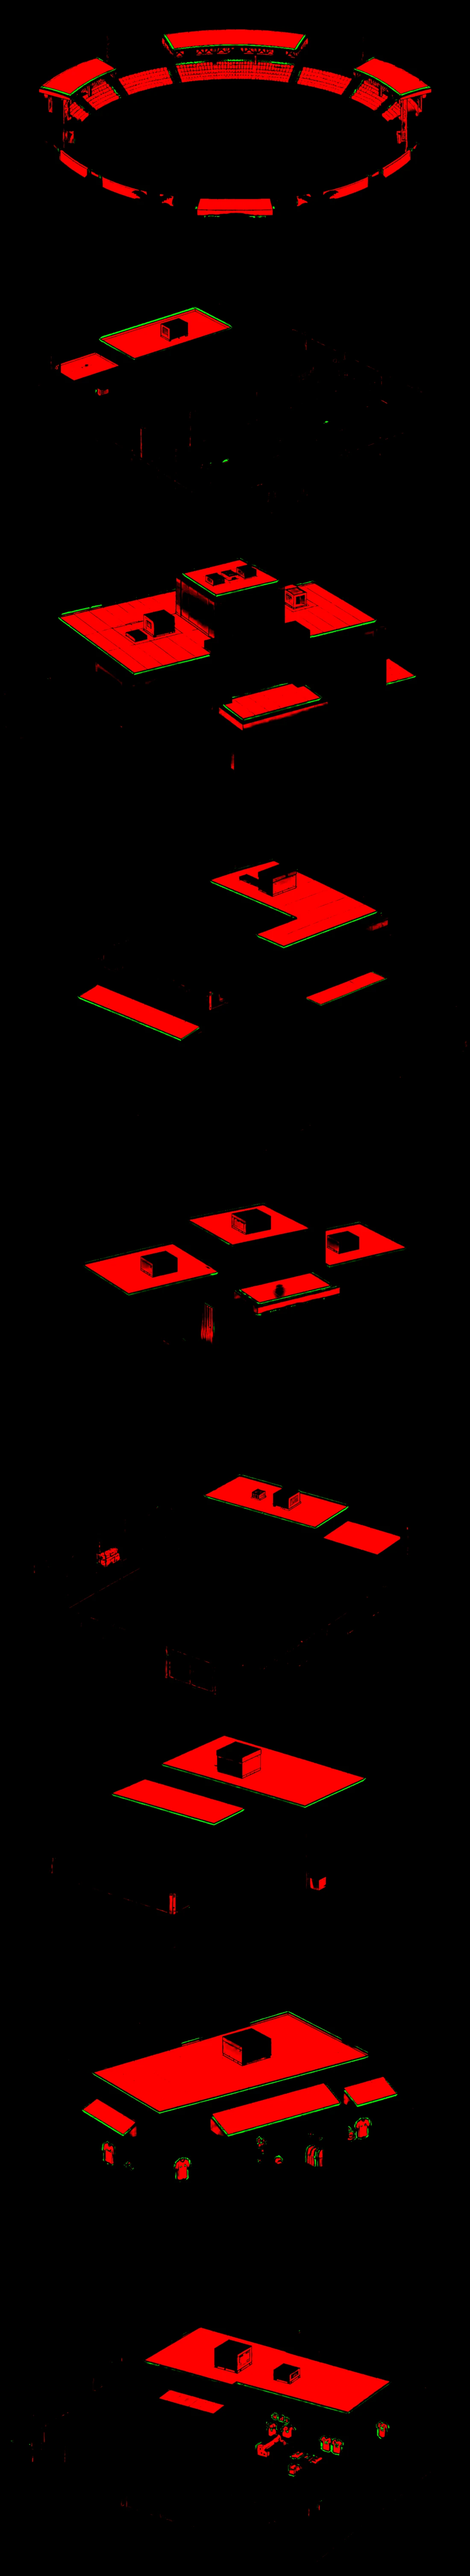
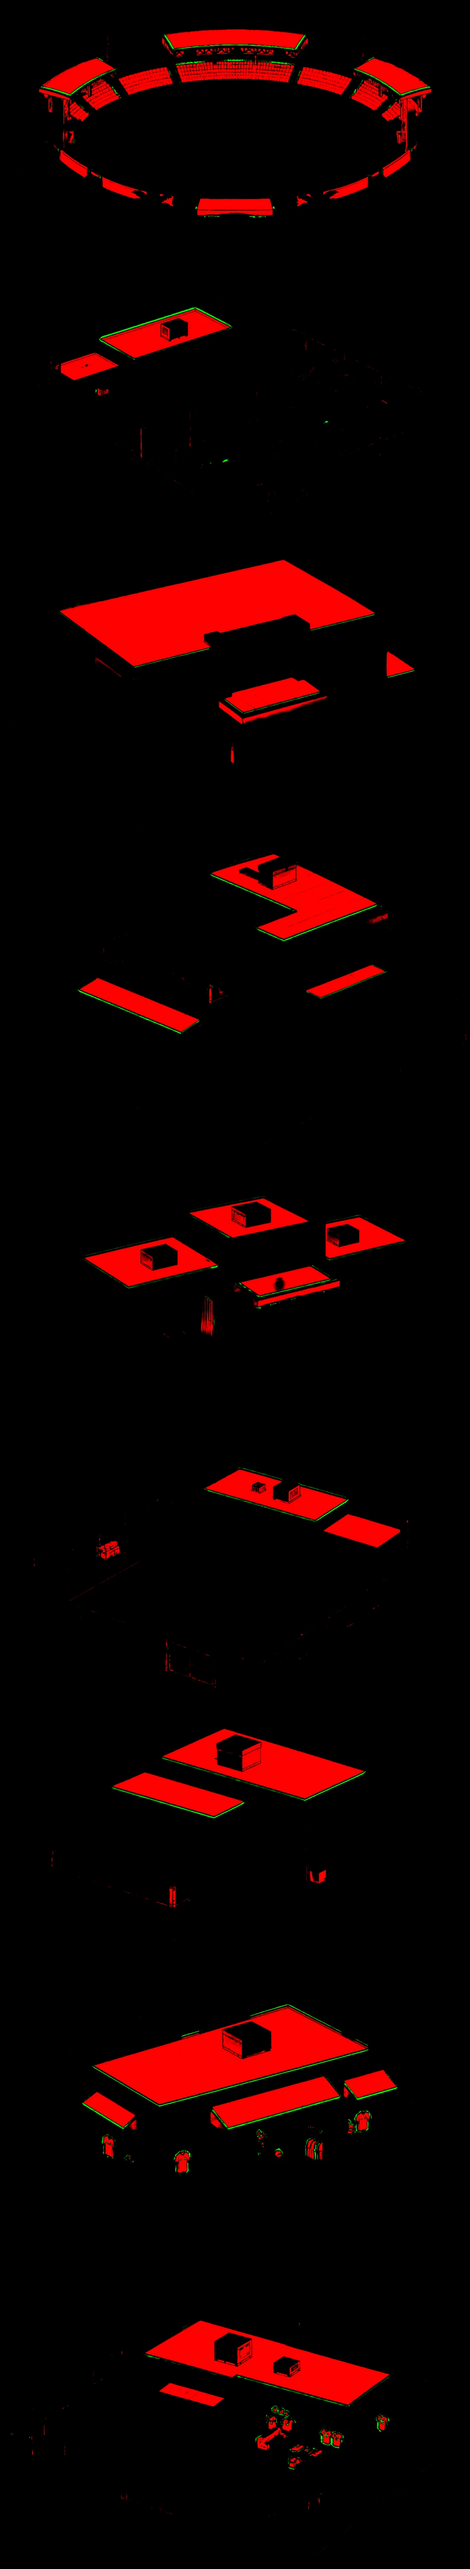
Club map: the level 1 club office (level 3 and the earlier one kept for later)
Claude-Session: https://claude.ai/code/session_01NK7tbrKg5PdA6fuyEUPXLd

diff --git a/js/clubmap.js b/js/clubmap.js
@@ -10,7 +10,7 @@ const SITES = {
   stadium:  { x: 0.504, y: 0.446, w: 0.314 },
   training: { x: 0.344, y: 0.165, w: 0.351 },
   apartment:{ x: 0.725, y: 0.211, w: 0.314 },
-  office:   { x: 0.224, y: 0.310, w: 0.316 },
+  office:   { x: 0.224, y: 0.312, w: 0.315 },
   academy:  { x: 0.810, y: 0.364, w: 0.294 },
   medical:  { x: 0.234, y: 0.570, w: 0.320 },
   clubhouse:{ x: 0.766, y: 0.592, w: 0.309 },
@@ -19,7 +19,7 @@ const SITES = {
 };
 const ORDER = Object.keys(SITES).sort((a, b) => SITES[a].y - SITES[b].y);   // far to near, the near ones painted over the far
 // where each building is in img/map/buildings.webp (and its tint in buildings-tint.webp): [row, height], all 1100 wide (tools/build_map.py)
-const ATLAS = {"stadium": [0, 647], "training": [647, 645], "office": [1292, 704], "apartment": [1996, 732], "medical": [2728, 651], "academy": [3379, 659], "clubhouse": [4038, 601], "shop": [4639, 709], "merch": [5348, 675]};
+const ATLAS = {"stadium": [0, 647], "training": [647, 645], "office": [1292, 688], "apartment": [1980, 732], "medical": [2712, 651], "academy": [3363, 659], "clubhouse": [4022, 601], "shop": [4623, 709], "merch": [5332, 675]};
 const AW = 1100;
 const rgbOf = h => [1, 3, 5].map(i => parseInt(h.slice(i, i + 2), 16));
 const load = src => new Promise((res, rej) => { const im = new Image(); im.onload = () => res(im); im.onerror = rej; im.src = src; });

diff --git a/tools/fit_map_sites.py b/tools/fit_map_sites.py
@@ -21,7 +21,7 @@ plots=[]
 for i,sl in enumerate(ndi.find_objects(lab),1):
     if (lab[sl]==i).sum()>40000:
         ys,xs=np.where(lab==i); plots.append(dict(cx=(xs.min()+xs.max())/2,cy=(ys.min()+ys.max())/2,x0=xs.min(),x1=xs.max(),y1=ys.max()))
-ATLAS={"stadium":[0,647],"training":[647,645],"office":[1292,704],"apartment":[1996,732],"medical":[2728,651],"academy":[3379,659],"clubhouse":[4038,601],"shop":[4639,709],"merch":[5348,675]}
+ATLAS={"stadium":[0,647],"training":[647,645],"office":[1292,688],"apartment":[1980,732],"medical":[2712,651],"academy":[3363,659],"clubhouse":[4022,601],"shop":[4623,709],"merch":[5332,675]}
 atlas=Image.open(R+'img/map/buildings.webp').convert('RGBA'); al=np.array(atlas)[...,3]
 def pick(fx,fy): return min(plots,key=lambda p:(p['cx']/W-fx)**2+(p['cy']/H-fy)**2)
 assign={'stadium':(.503,.444),'training':(.34,.195),'apartment':(.735,.245),'office':(.224,.334),'academy':(.812,.382),'medical':(.24,.584),'clubhouse':(.766,.594),'shop':(.239,.739),'merch':(.749,.757)}
